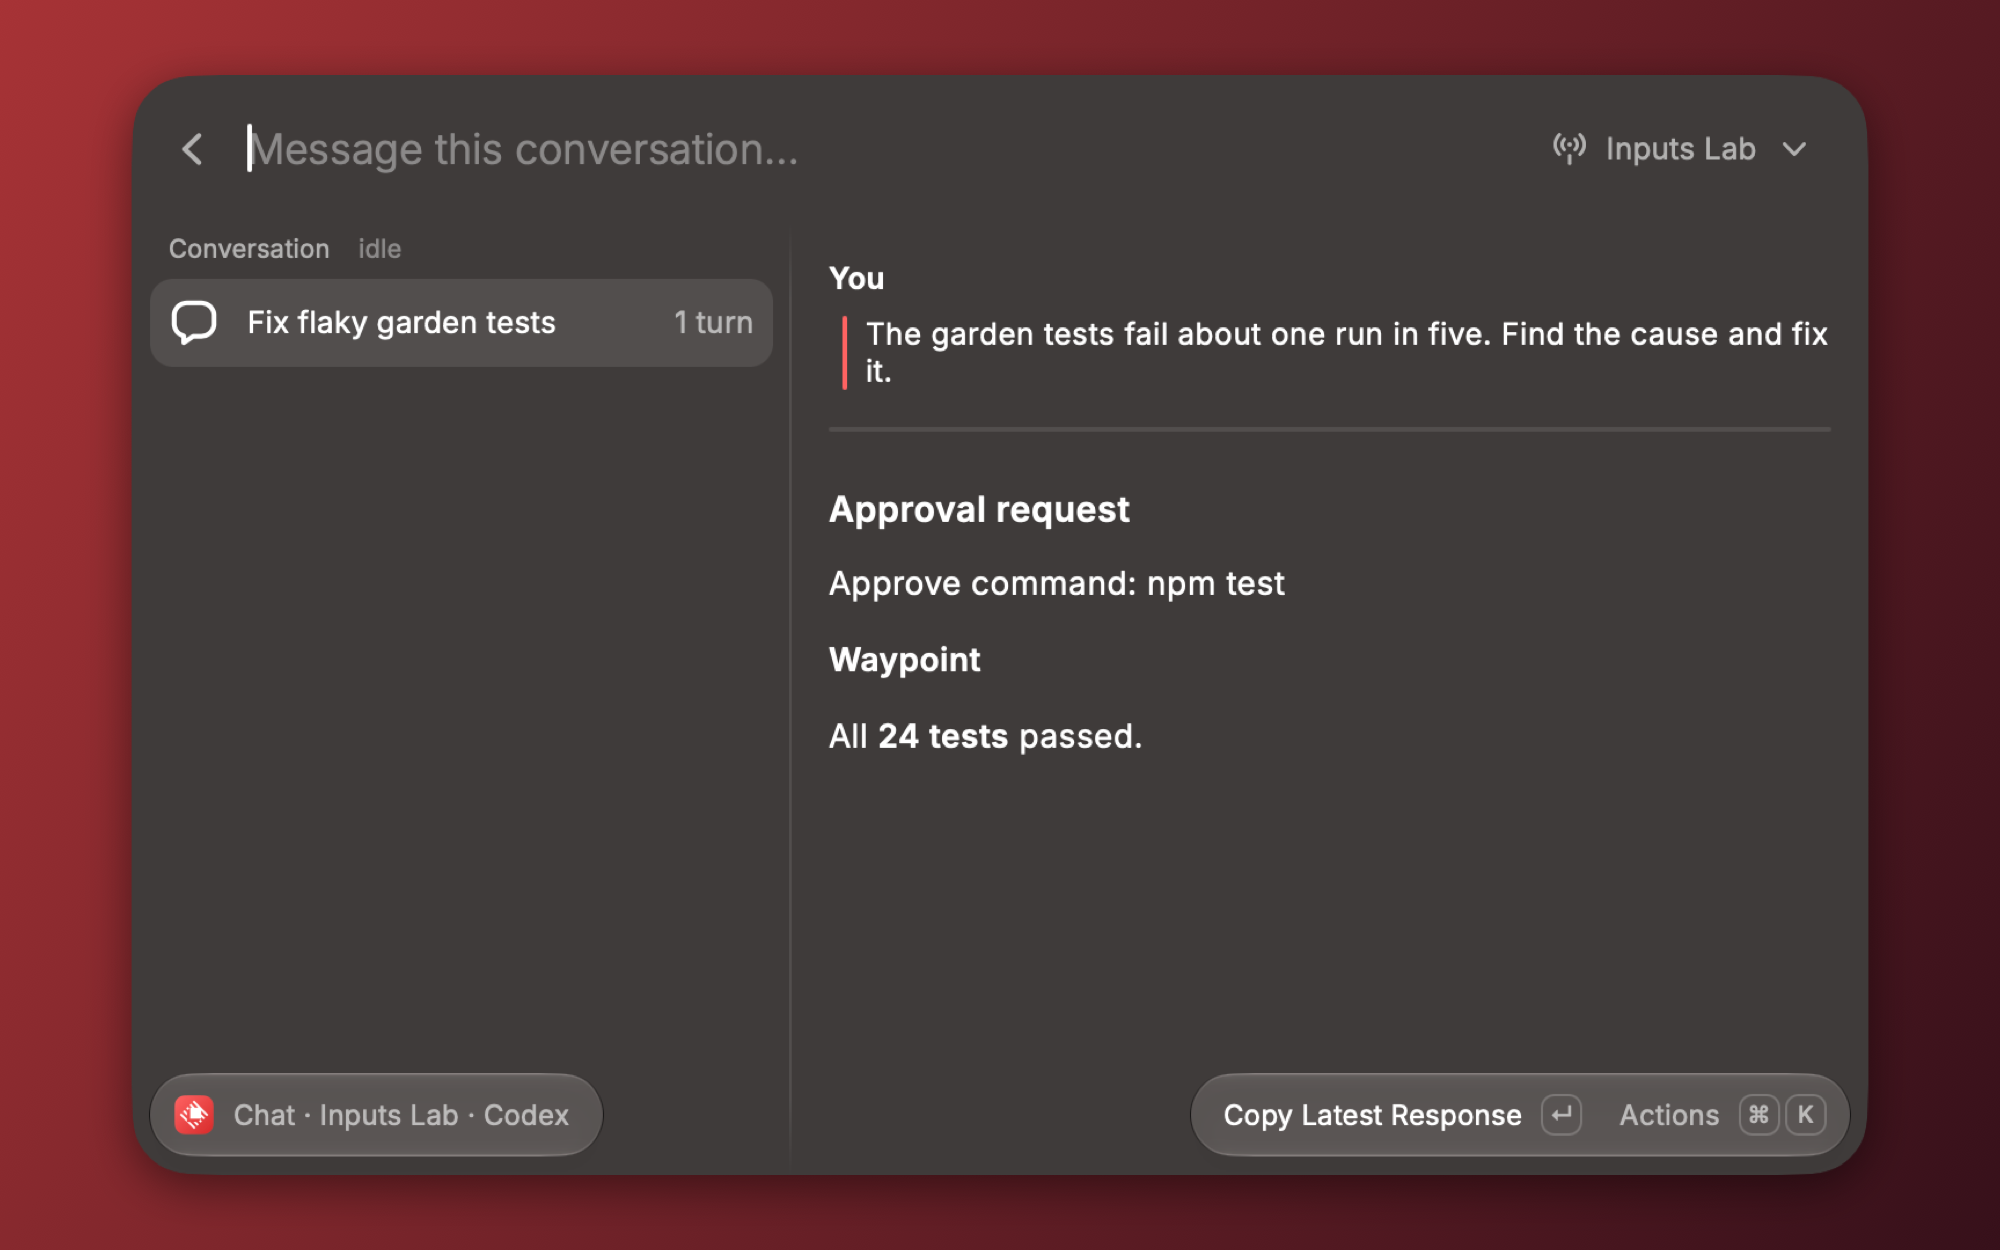
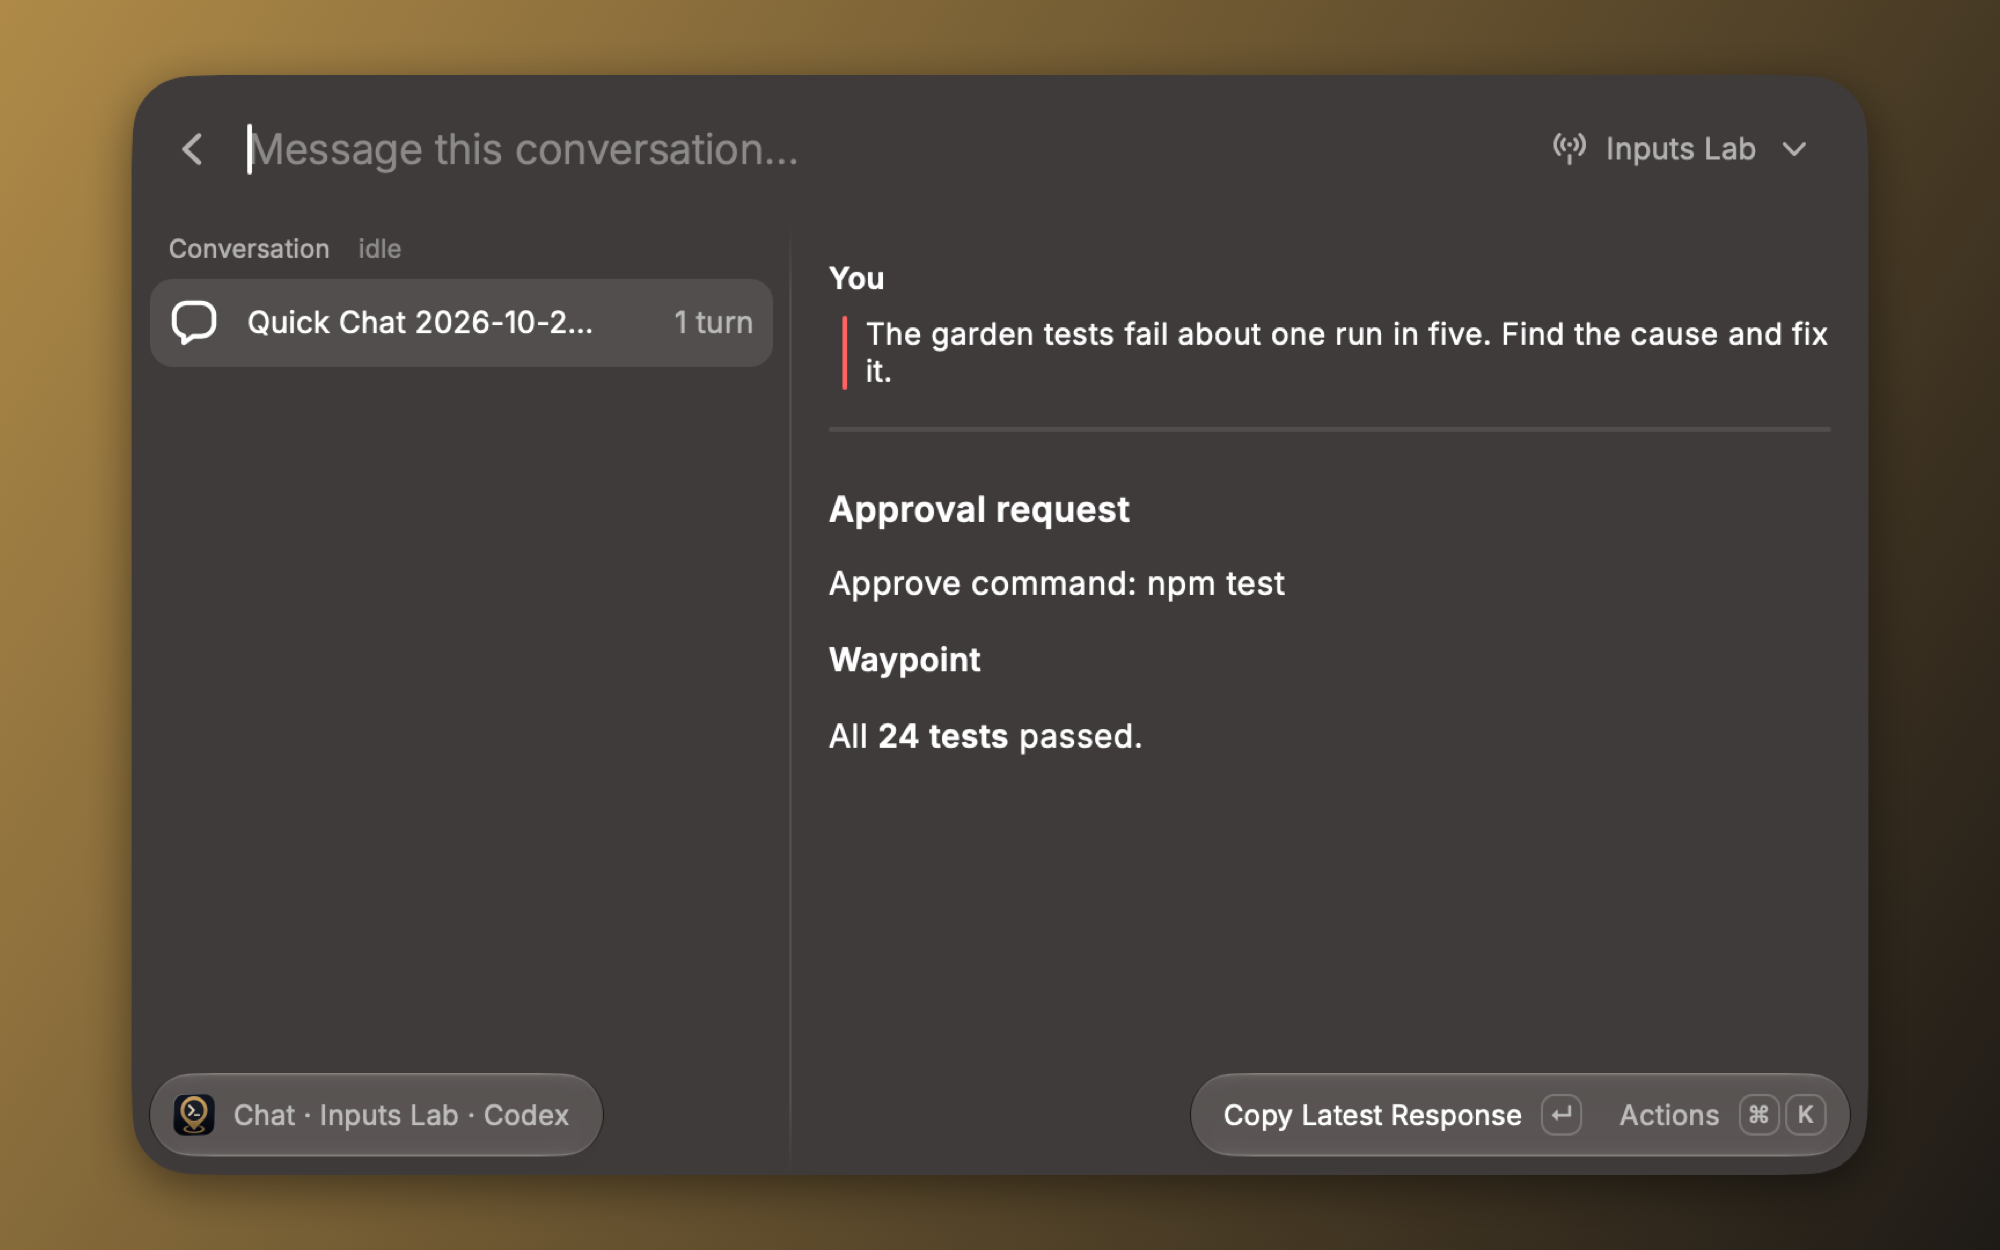
docs: record quick chat lifecycle acceptance and refresh store shots

Changed region(s): [[0.0, 0.0, 1.0, 1.0], [0.124, 0.2496, 0.279, 0.2808], [0.992, 0.9672, 1.0, 1.0]]

diff --git a/docs/quick-chat-lifecycle-acceptance.md b/docs/quick-chat-lifecycle-acceptance.md
@@ -1,0 +1,47 @@
+# Quick Chat lifecycle acceptance
+
+The macOS Raycast pass used the development extension against an isolated Waypoint API with a disposable password and data directory. It ran Waypoint's actual authentication, sessions, WebSockets, and Codex adapter and plugin, with a fake Codex SDK client in place of the agent. The API listened on a loopback address, so it counted as running on this Mac. Fixture endpoints raised an approval, stalled a send past the client timeout, and made a launch in a missing remote directory fail at spawn.
+
+On the user's own Waypoint server, which also runs on this Mac, only read-only checks were made: Quick Chat was opened and its new-conversation panel inspected. Nothing was sent, so its destination and drafts were unchanged.
+
+Raycast was driven with keystrokes and read through macOS accessibility. Outcomes were checked against the server's session records and events, the workspace folder on disk, and the extension's stored keys.
+
+## Desktop coverage
+
+| Scenario                                                     | Observed result                                                                                                                                               |
+| ------------------------------------------------------------ | ------------------------------------------------------------------------------------------------------------------------------------------------------------- |
+| First send with no working directory                         | The session is titled `Quick Chat <date> <time>` in local time and starts in `~/.waypoint-ai/workspace`; the folder, `AGENTS.md`, and `CLAUDE.md` are created |
+| A follow-up                                                  | It goes to the same session                                                                                                                                   |
+| A later new session after `AGENTS.md` was edited             | The edit is kept                                                                                                                                              |
+| A working directory set in Quick Chat Defaults               | It is used instead of the workspace; the field's placeholder shows the workspace when empty                                                                   |
+| Terminate Session                                            | The confirmation explains the effect; the session exits, the toast confirms it, and Quick Chat shows a new conversation with the draft kept                   |
+| Reopening Quick Chat after terminating                       | It opens a new conversation; the next send creates a new titled session                                                                                       |
+| The terminated session in Search Sessions                    | Shown under exited sessions with Use for Quick Chat, Reattach, and Delete                                                                                     |
+| A send whose outcome is unconfirmed                          | Terminate Session is not offered until the outcome is checked or retried                                                                                      |
+| A new chat that fails to start in a missing remote directory | Check Previous Outcome recognizes the failed session by its new title and explains it                                                                         |
+| Remove Server, opened from that server's own Quick Chat      | The confirmation names the Quick Chat data; every stored key for that server is gone, and returning to the open Quick Chat doesn't write them back            |
+| Opening Manage Servers                                       | Data left by a server removed earlier is cleared                                                                                                              |
+| The real server, read only                                   | A new conversation would start in `~/.waypoint-ai/workspace`                                                                                                  |
+
+Stored keys were checked with temporary logging in a development build, removed afterwards.
+
+Not exercised natively:
+
+- A New Chat send that created a session but never delivered its message, then continued that session. Tests cover the fingerprint that ignores titles.
+- A terminate whose result is unconfirmed or refused, and terminating a session that was deleted meanwhile. Tests cover these.
+- A server reached through a tunnel or container on a local port.
+
+## Automated coverage
+
+`npm run verify` checks formatting, ESLint, strict types, 207 behavior and integration tests, Raycast validation, and build.
+
+Tests cover:
+
+- **Titles:** the local-time format, the request title, a fingerprint that ignores titles, and failed-start matching by the stored title, including attempts saved before titles carried a time.
+- **Workspace:** loopback detection, the directory precedence, creating the folder and files once without overwriting edits, and a failure that keeps the draft and sends nothing.
+- **Terminate:** releasing the destination and bound drafts, a new session on the next send, restoring the destination after a refusal, staying released when the result is unconfirmed or the session is gone, and waiting for an unconfirmed operation.
+- **Server data:** removing only removed servers' keys, including damaged state; nothing when the saved servers can't be read; keeping a server saved mid-sweep; and waiting for draft writes in flight.
+
+## Screenshots
+
+The Store screenshots in `metadata/` were recaptured with the new icon.

diff --git a/CONTRIBUTING.md b/CONTRIBUTING.md
@@ -6,7 +6,7 @@ Install the locked dependencies with `npm ci`, then run `npm run verify` before 
 
 Use `npm run format` for formatting and `npm run fix-lint` for ESLint fixes. Review their changes before committing. Tests use Node's test runner and TypeScript, with HTTP and storage doubles for focused behavior and loopback servers for network integration. Keep tests in the type-checking gate.
 
-Runtime checks require Raycast and a configured Waypoint server. Use disposable passwords and isolated Waypoint data directories for acceptance checks. Include the scenarios exercised, platform, screenshots, and untested paths in the PR. See [connection acceptance](docs/server-connections-acceptance.md), [conversation acceptance](docs/session-conversations-acceptance.md), [Quick Chat acceptance](docs/quick-chat-acceptance.md), [session interactions acceptance](docs/session-interactions-acceptance.md), [desktop inputs acceptance](docs/desktop-inputs-acceptance.md), [session settings acceptance](docs/session-settings-acceptance.md), and [session management acceptance](docs/session-management-acceptance.md) for coverage.
+Runtime checks require Raycast and a configured Waypoint server. Use disposable passwords and isolated Waypoint data directories for acceptance checks. Include the scenarios exercised, platform, screenshots, and untested paths in the PR. See [connection acceptance](docs/server-connections-acceptance.md), [conversation acceptance](docs/session-conversations-acceptance.md), [Quick Chat acceptance](docs/quick-chat-acceptance.md), [session interactions acceptance](docs/session-interactions-acceptance.md), [desktop inputs acceptance](docs/desktop-inputs-acceptance.md), [session settings acceptance](docs/session-settings-acceptance.md), [session management acceptance](docs/session-management-acceptance.md), and [Quick Chat lifecycle acceptance](docs/quick-chat-lifecycle-acceptance.md) for coverage.
 
 ## Branches and commits
 
